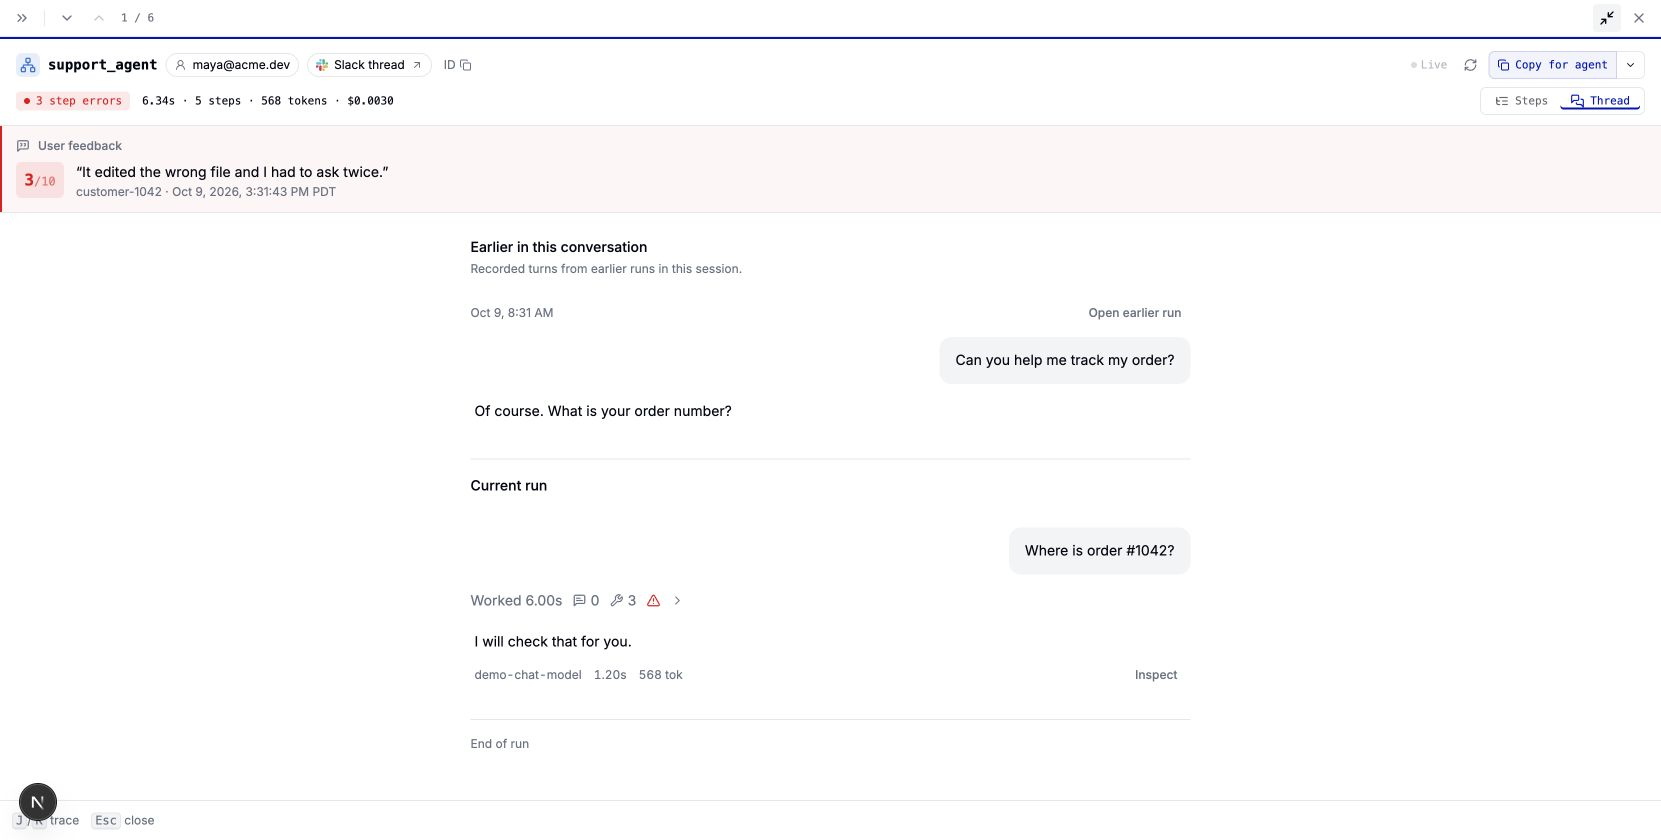
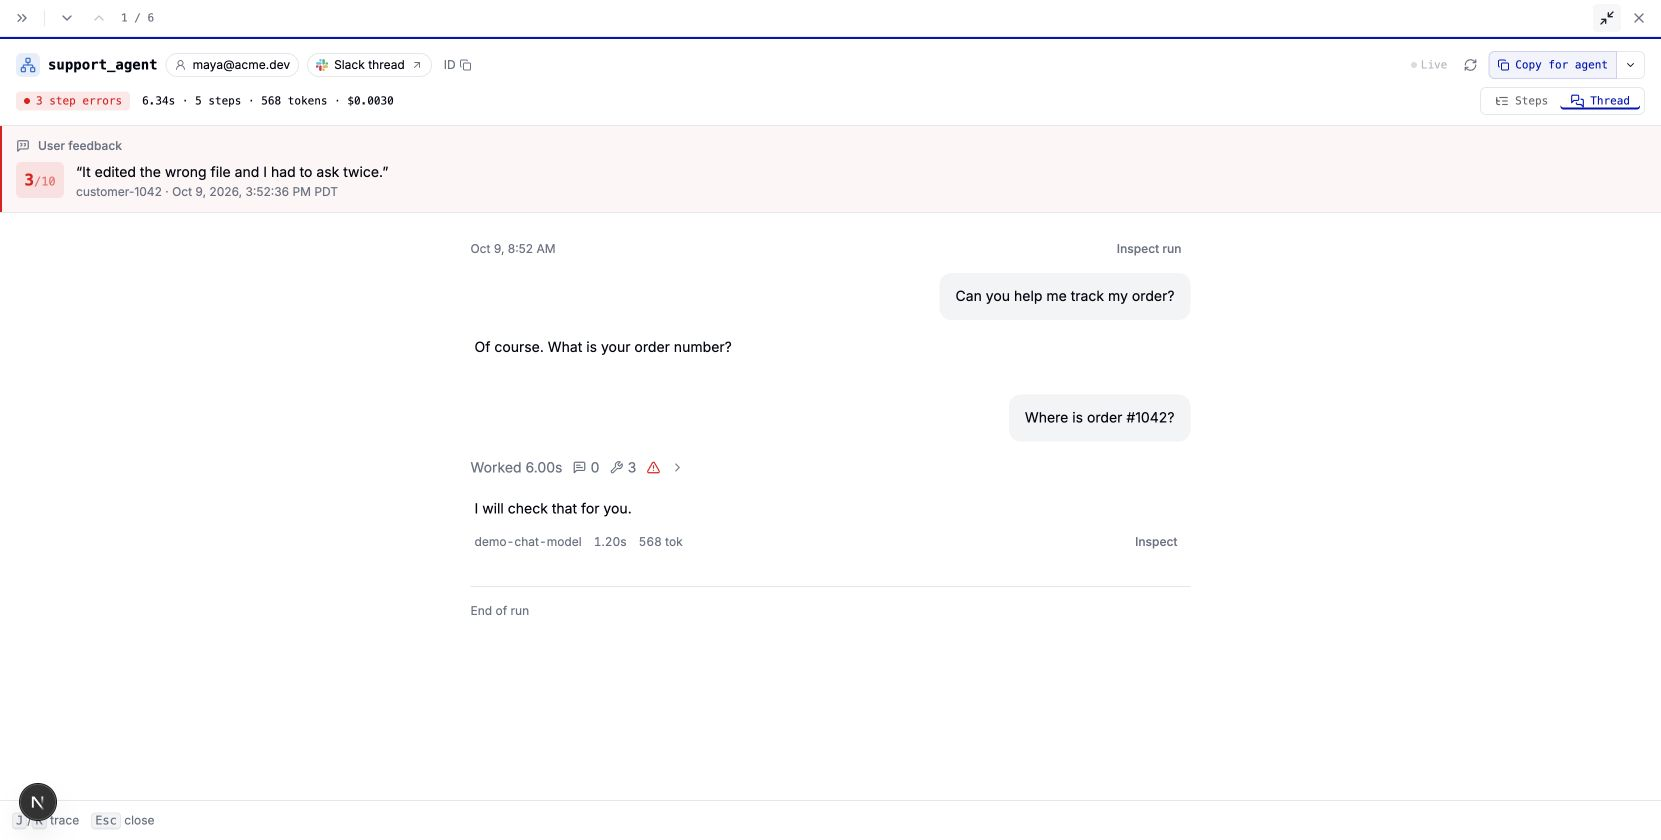
fix(traces): render recorded turns as one conversation

diff --git a/src/ui/lib/src/components/lens/traces/detail/conversation/EarlierConversation.integration.test.tsx b/src/ui/lib/src/components/lens/traces/detail/conversation/EarlierConversation.integration.test.tsx
@@ -118,23 +118,25 @@ function serve() {
 
 beforeEach(() => testQueryClient.clear());
 
-describe("Earlier conversation", () => {
-  it("opens the original request and reply before the current run from the Steps notice", async () => {
+describe("Full conversation", () => {
+  it("opens one continuous thread from the Steps notice with the original request and reply first", async () => {
     const user = userEvent.setup();
     const { gateway, history } = serve();
     history.mockReturnValue({ turns: [original], next_cursor: null });
     renderWithProviders(<RoutedRun />);
 
     expect(await screen.findByRole("tree", { name: "Spans in time order" })).toBeVisible();
-    await user.click(await screen.findByRole("button", { name: "View earlier turns" }));
+    await user.click(await screen.findByRole("button", { name: "View full conversation" }));
     const thread = await screen.findByRole("region", { name: "Trace thread" });
     expect(screen.getByRole("tab", { name: "Thread", selected: true })).toBeVisible();
     expect(await within(thread).findByText(original.input)).toBeVisible();
     expect(within(thread).getByText(original.output)).toBeVisible();
     expect(await within(thread).findByText(currentDetail.output)).toBeVisible();
     expect(thread).toHaveTextContent(
-      /Find the failing release check.*The package check failed.*Current run.*Verify the updated release.*The updated release passes/,
+      /Find the failing release check.*The package check failed.*Verify the updated release.*The updated release passes/,
     );
+    expect(within(thread).queryByRole("heading", { name: "Earlier in this conversation" })).not.toBeInTheDocument();
+    expect(within(thread).queryByRole("heading", { name: "Current run" })).not.toBeInTheDocument();
     expect(gateway.get).toHaveBeenCalledWith(`/v1/traces/${currentId}/conversation`, {
       query: { trace_ref: currentRef },
       body: undefined,
@@ -153,7 +155,7 @@ describe("Earlier conversation", () => {
     const thread = await screen.findByRole("region", { name: "Trace thread" });
     expect(await within(thread).findByText(original.input)).toBeVisible();
     expect(await within(thread).findByText(currentDetail.output)).toBeVisible();
-    await user.click(within(thread).getByRole("button", { name: "Load more earlier turns" }));
+    await user.click(within(thread).getByRole("button", { name: "Load more messages" }));
 
     expect(await within(thread).findByRole("alert")).toHaveTextContent("This run is still available");
     expect(within(thread).getByText(original.input)).toBeVisible();
@@ -163,13 +165,15 @@ describe("Earlier conversation", () => {
 
     expect(await within(thread).findByText("The fix is ready to review")).toBeVisible();
     expect(within(thread).getAllByText(original.input)).toHaveLength(1);
-    expect(within(thread).getAllByRole("article", { name: "Earlier turn" })).toHaveLength(2);
+    expect(within(thread).getAllByRole("link", { name: "Inspect run" })).toHaveLength(2);
     expect(thread).toHaveTextContent(
-      /Find the failing release check.*The package check failed.*Fix that package check.*The fix is ready to review.*Current run.*Verify the updated release/,
+      /Find the failing release check.*The package check failed.*Fix that package check.*The fix is ready to review.*Verify the updated release/,
     );
+    expect(within(thread).queryByRole("heading", { name: "Earlier in this conversation" })).not.toBeInTheDocument();
+    expect(within(thread).queryByRole("heading", { name: "Current run" })).not.toBeInTheDocument();
     expect(history.mock.calls.map(([cursor]) => cursor)).toEqual([undefined, "next-context-page", "next-context-page"]);
     expect(within(thread).queryByRole("alert")).not.toBeInTheDocument();
-    expect(within(thread).queryByRole("button", { name: "Load more earlier turns" })).not.toBeInTheDocument();
+    expect(within(thread).queryByRole("button", { name: "Load more messages" })).not.toBeInTheDocument();
   });
 
   it("keeps the current trace usable when initial context fails and recovers on request", async () => {
@@ -180,7 +184,7 @@ describe("Earlier conversation", () => {
     });
     renderWithProviders(<RoutedRun />);
 
-    expect(await screen.findByRole("alert")).toHaveTextContent("Could not load earlier conversation");
+    expect(await screen.findByRole("alert")).toHaveTextContent("Could not load conversation history");
     expect(screen.getByRole("tree", { name: "Spans in time order" })).toBeVisible();
     await user.click(screen.getByRole("tab", { name: "Thread" }));
     const thread = await screen.findByRole("region", { name: "Trace thread" });
@@ -215,7 +219,7 @@ describe("Earlier conversation", () => {
       );
       renderWithProviders(<RoutedRun />, { searchParams: "?view=thread" });
       const thread = await screen.findByRole("region", { name: "Trace thread" });
-      await user.click(await within(thread).findByRole("button", { name: "Load more earlier turns" }));
+      await user.click(await within(thread).findByRole("button", { name: "Load more messages" }));
       expect(await within(thread).findByRole("alert")).toHaveTextContent("This run is still available");
       expect(within(thread).getByText(original.input)).toBeVisible();
       expect(await within(thread).findByText(currentDetail.output)).toBeVisible();
@@ -248,8 +252,8 @@ describe("Earlier conversation", () => {
         },
       );
       await user.click(await screen.findByRole("tab", { name: "Thread" }));
-      const context = await screen.findByRole("region", { name: "Earlier conversation" });
-      const link = within(context).getByRole("link", { name: "Open earlier run" });
+      const thread = await screen.findByRole("region", { name: "Trace thread" });
+      const link = await within(thread).findByRole("link", { name: "Inspect run" });
       const href = link.getAttribute("href");
       expect(href).toBeTruthy();
       expect(Object.fromEntries(new URL(href!, "http://localhost/ui/lens").searchParams)).toEqual({

diff --git a/src/ui/lib/src/components/lens/traces/detail/conversation/EarlierConversation.tsx b/src/ui/lib/src/components/lens/traces/detail/conversation/EarlierConversation.tsx
@@ -30,10 +30,9 @@ export function EarlierConversationNotice({ history, onOpen }: { history: Conver
   if (history.isError) return <HistoryError history={history} />;
   if (!history.data?.pages.some((page) => page.turns.length)) return null;
   return (
-    <div className="flex shrink-0 items-center justify-between gap-3 border-b bg-muted/30 px-4 py-2 text-xs">
-      <span>This run has earlier conversation context.</span>
+    <div className="flex shrink-0 items-center justify-end border-b bg-muted/30 px-4 py-2 text-xs">
       <Button variant="ghost" size="sm" onClick={onOpen}>
-        View earlier turns
+        View full conversation
       </Button>
     </div>
   );
@@ -44,7 +43,7 @@ function HistoryError({ history }: { history: ConversationHistory }) {
   const restart = failure.kind === "invalid" || failure.kind === "changed";
   return (
     <div role="alert" className="flex shrink-0 items-center justify-between gap-3 border-b p-3 text-xs">
-      <span>Could not load earlier conversation. This run is still available.</span>
+      <span>Could not load conversation history. This run is still available.</span>
       <Button
         variant="outline"
         size="sm"
@@ -76,17 +75,13 @@ export function EarlierConversation({ history }: { history: ConversationHistory 
     <>
       {history.isPending && (
         <p role="status" className="text-sm text-muted-foreground">
-          Checking earlier conversation…
+          Loading conversation…
         </p>
       )}
       {turns.length > 0 && (
-        <section aria-label="Earlier conversation" className="min-w-0 space-y-6">
-          <div>
-            <h2 className="text-sm font-medium">Earlier in this conversation</h2>
-            <p className="mt-1 text-xs text-muted-foreground">Recorded turns from earlier runs in this session.</p>
-          </div>
+        <div className="min-w-0 space-y-8">
           {turns.map((turn) => (
-            <article key={`${turn.trace_ref}:${turn.span_id}`} aria-label="Earlier turn" className="min-w-0 space-y-3">
+            <article key={`${turn.trace_ref}:${turn.span_id}`} className="min-w-0 space-y-3">
               <div className="flex items-center justify-between gap-3 text-xs text-muted-foreground">
                 <time dateTime={turn.start_time}>{moment(turn.start_time).format("MMM D, h:mm A")}</time>
                 <a
@@ -101,7 +96,7 @@ export function EarlierConversation({ history }: { history: ConversationHistory 
                   target="_blank"
                   rel="noopener noreferrer"
                 >
-                  Open earlier run
+                  Inspect run
                 </a>
               </div>
               {[
@@ -112,15 +107,14 @@ export function EarlierConversation({ history }: { history: ConversationHistory 
               ))}
             </article>
           ))}
-        </section>
+        </div>
       )}
       {history.isError && <HistoryError history={history} />}
       {history.hasNextPage && !history.isError && (
         <Button variant="outline" size="sm" disabled={history.isFetching} onClick={() => void history.fetchNextPage()}>
-          {history.isFetchingNextPage ? "Loading conversation…" : "Load more earlier turns"}
+          {history.isFetchingNextPage ? "Loading conversation…" : "Load more messages"}
         </Button>
       )}
-      {turns.length > 0 && <h2 className="border-t pt-4 text-sm font-medium">Current run</h2>}
     </>
   );
 }

diff --git a/docs/evidence/trace-conversation/README.md b/docs/evidence/trace-conversation/README.md
@@ -1,6 +1,6 @@
-# Earlier conversation context
+# Continuous conversation context
 
-The selected run previously started at its current request even when earlier turns were already recorded under the same session. The Thread view now shows those earlier requests and replies first, with a separate current-run section and links to the original runs
+The selected run previously started at its current request even when earlier turns were already recorded under the same session. The Thread view now shows the recorded requests and replies as one continuous conversation, with links to inspect their original runs
 
 The screenshots use built-in demo data. They contain no production conversation data
 
@@ -8,9 +8,9 @@ The screenshots use built-in demo data. They contain no production conversation 
 
 1. Start the UI with `npm run dev:ui` and open `http://localhost:3100/ui/?tab=traces&demo=true`
 2. Select `support_agent` and open the run whose input is `Where is order #1042?`
-3. Click **View earlier turns**, then **Enter full screen**
-4. Confirm that `Can you help me track my order?` and the earlier assistant reply appear above **Current run**
-5. Open the earlier run using its link and confirm that its trace is shown separately
+3. Click **View full conversation**, then **Enter full screen**
+4. Confirm that `Can you help me track my order?`, the assistant reply and `Where is order #1042?` appear in chronological order without section dividers
+5. Click **Inspect run** and confirm that the source trace opens separately
 
 ## Before
 
@@ -18,6 +18,6 @@ The screenshots use built-in demo data. They contain no production conversation 
 
 ## After
 
-![Earlier recorded conversation appears before the selected run](after.jpg)
+![Recorded messages form one continuous conversation](after.jpg)
 
 Earlier context includes stored root turns from the same session and trace owner that the caller can read. It excludes the selected run and later turns, and does not include a previous run's output if that run finished after the selected run started. It does not fetch Slack messages or reconstruct content omitted before ingestion
